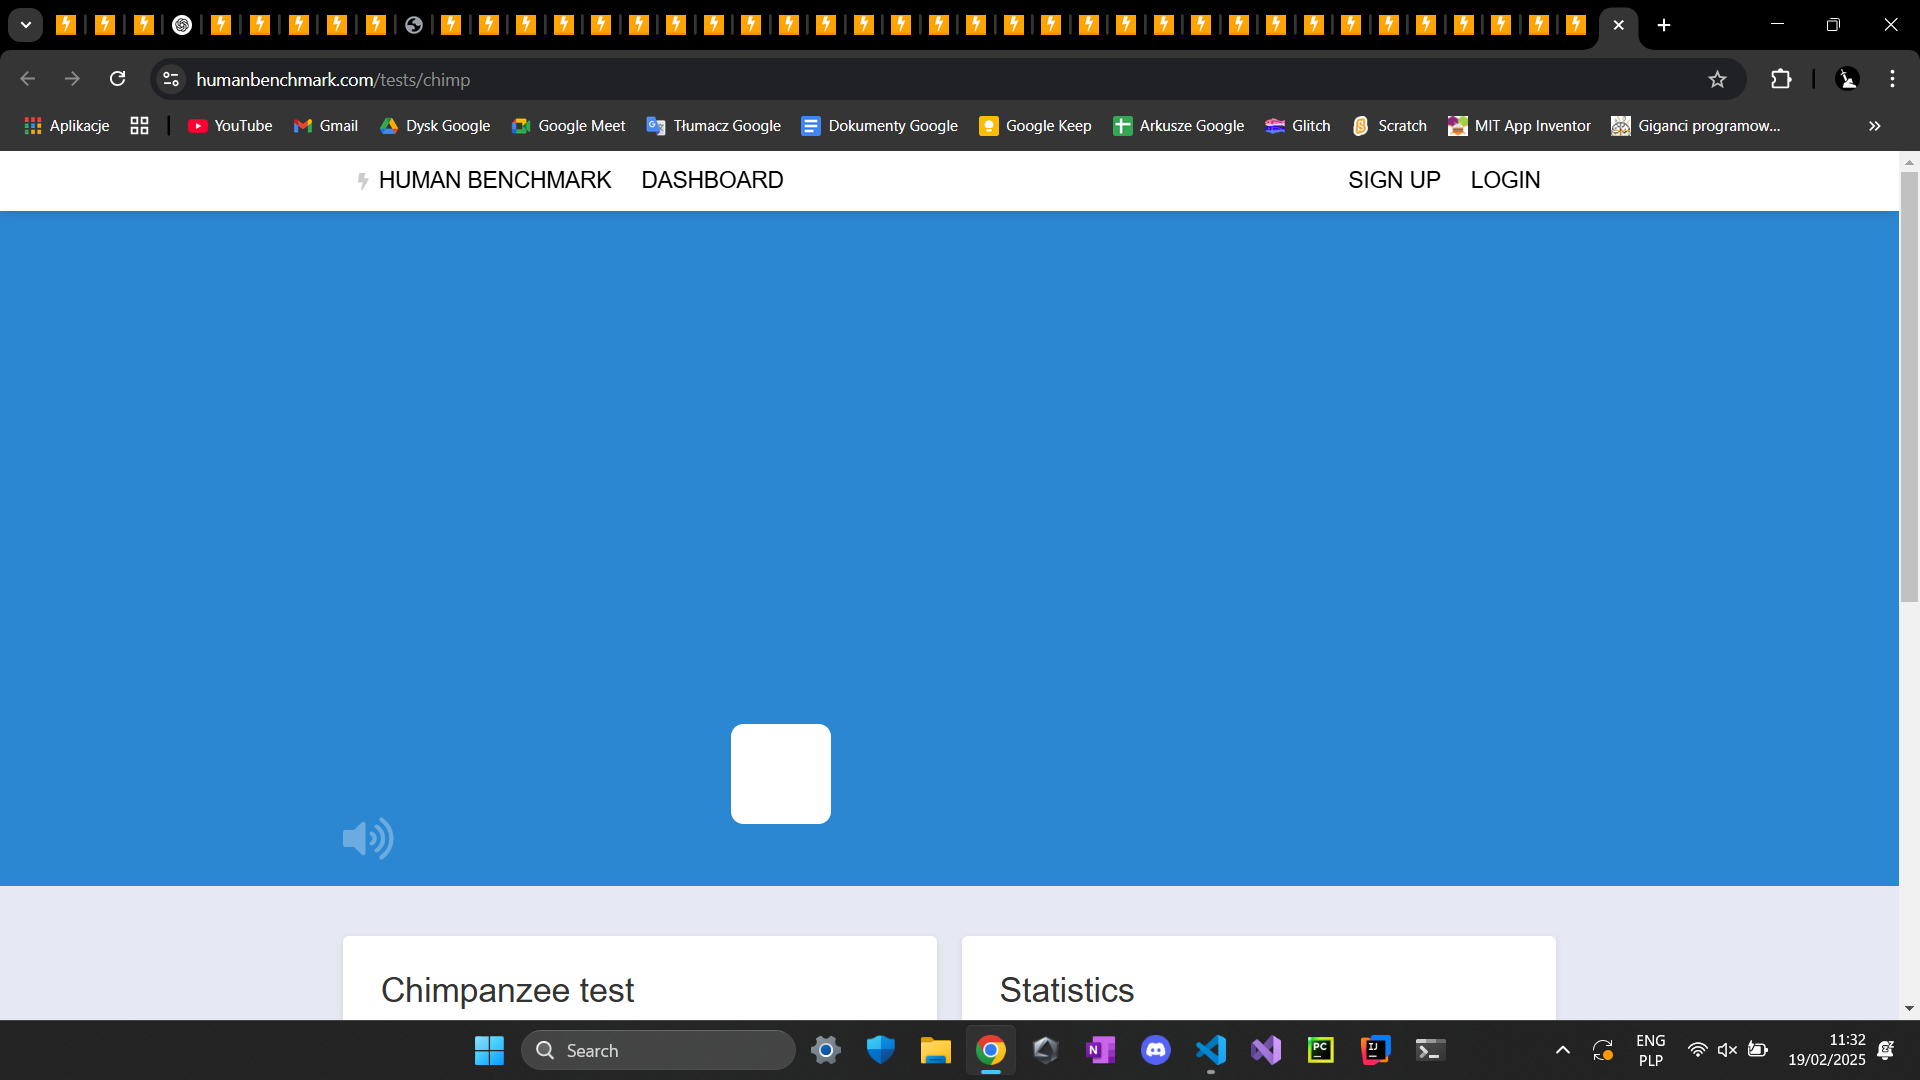
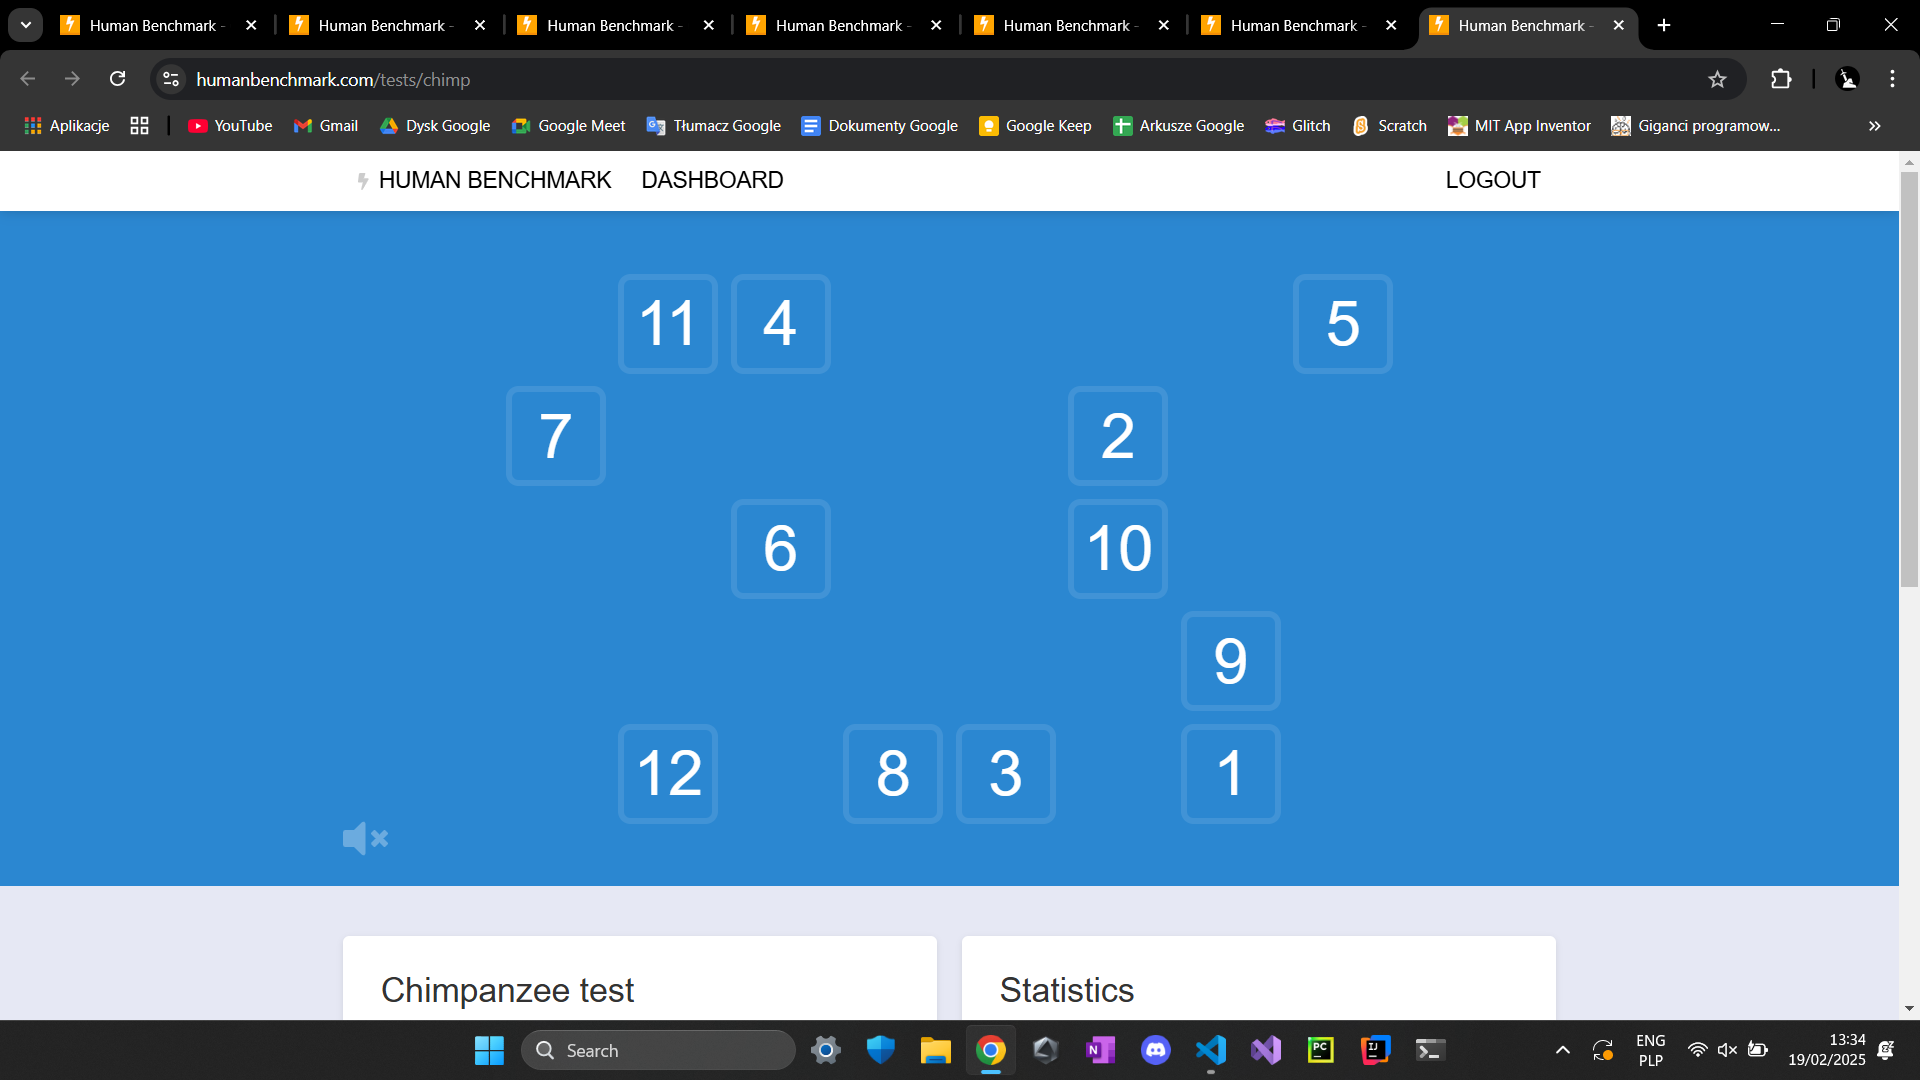
Slow, but working

diff --git a/Chimp Test/chimp.py b/Chimp Test/chimp.py
@@ -2,77 +2,68 @@ import pyautogui
 import numpy as np
 import time
 import webbrowser
-import imgkit
+import easyocr
+import cv2
 
 URL = "https://humanbenchmark.com/tests/chimp"
 
 MAX_LEVEL = 41
+
+BLUE = np.array([43, 135, 209])
+NUMBER_BORDER_COLOR = np.array([68, 152, 212])
+
 
 def open_human_benchmark():
     webbrowser.open(URL, 1, True)
     time.sleep(1)
 
 def start_game():
-    #generate_numbers()
+    
     button_location = pyautogui.locateCenterOnScreen("StartButton.png", confidence=0.9)
     for level in range(3, MAX_LEVEL):
-        time.sleep(1)
+        time.sleep(0.5)
         pyautogui.click(button_location)
         pyautogui.screenshot(f"level {level}.png")
-        
-        for x in remember_board():
-            time.sleep(0.5)
-            pyautogui.click(x)
-        
-def generate_numbers():
-    html_code = """
-        <html>
-        <head>
-            <style>
-            body {
-            margin: 0;
-            }
-            div {
-                width: 80px;
-                height: 80px;
-                background-color: #3498db;
-                color: white;
-                font-size: 65px;
-                text-align: center;
-                line-height: 80px;
-                font-family: Helvetica, Arial, sans-serif;
-                padding: 0;
-                font-weight: 400;
-                outline: 0;
-                margin: 0;
-                box-sizing: border-box;
-            }
-            </style>
-        </head>
-        <body>
-            <div>1</div>
-        </body>
-        </html>
-        """
-    for i in range(1, MAX_LEVEL):
-        f = open("number.html", "w")
-        f.write(html_code.replace("<div>1</div>", f"<div>{i}</div>"))
-        f.close()
-        options = {
-            "width": 80,
-            "height": 80,
-        }
-        config = imgkit.config(wkhtmltoimage=r"C:\Program Files\wkhtmltopdf\bin\wkhtmltoimage.exe")
-        imgkit.from_file(filename="number.html", output_path=f"{i}.png", config=config, options=options)
 
+        positions = sorted(remember_board(), key=lambda x: x[0])
         
+        for x in positions:
+            pyautogui.click(x[1])
+
+def determine_game_size():
+    screenWidth, screenHeight = pyautogui.size()
+    game_lower_border = -1
+    game_upper_border = screenHeight
+    screenshot = np.array(pyautogui.screenshot())
+    for y in range(screenHeight):
+        if np.array_equal(screenshot[y][screenWidth//2], BLUE):
+            if game_lower_border < 0:
+                game_lower_border = y
+            else:
+                game_upper_border = y
+    return (screenWidth//10, int(game_lower_border), int(0.8*screenWidth), int(game_upper_border-game_lower_border)), screenWidth//10, game_lower_border
+
 def remember_board():
     positions = []
-    for i in range(1, MAX_LEVEL):
-        try:
-            positions.append(pyautogui.locateCenterOnScreen(f"{i}.png", confidence=0.9))
-        except:
-            break
+    game_size, x_border, y_border = determine_game_size()
+    screenshot = np.array(pyautogui.screenshot("level.png", region=game_size))
+    for y in range(len(screenshot)-100):
+        for x in range(len(screenshot[y])-100):
+            if np.array_equal(screenshot[y][x], BLUE):
+                continue
+            image = screenshot[y:y+100, x:x+100]
+            cv2.imwrite(f"number.png", image)
+            image = cv2.imread(f"number.png", cv2.IMREAD_GRAYSCALE)
+            _, image = cv2.threshold(image, 200, 255, cv2.THRESH_BINARY)
+            reader = easyocr.Reader(["en"])
+            data = reader.readtext(image, allowlist="1234567890", detail=0)
+            screenshot[y-10:y+100, x-10:x+100] = BLUE
+            print(data)
+            try:
+                positions.append([int(data[0]), (x+x_border+50, y+y_border+50)])
+            except:
+                positions.append([7, (x+x_border+50, y+y_border+50)])
+    print()
     return positions
 
 open_human_benchmark()
